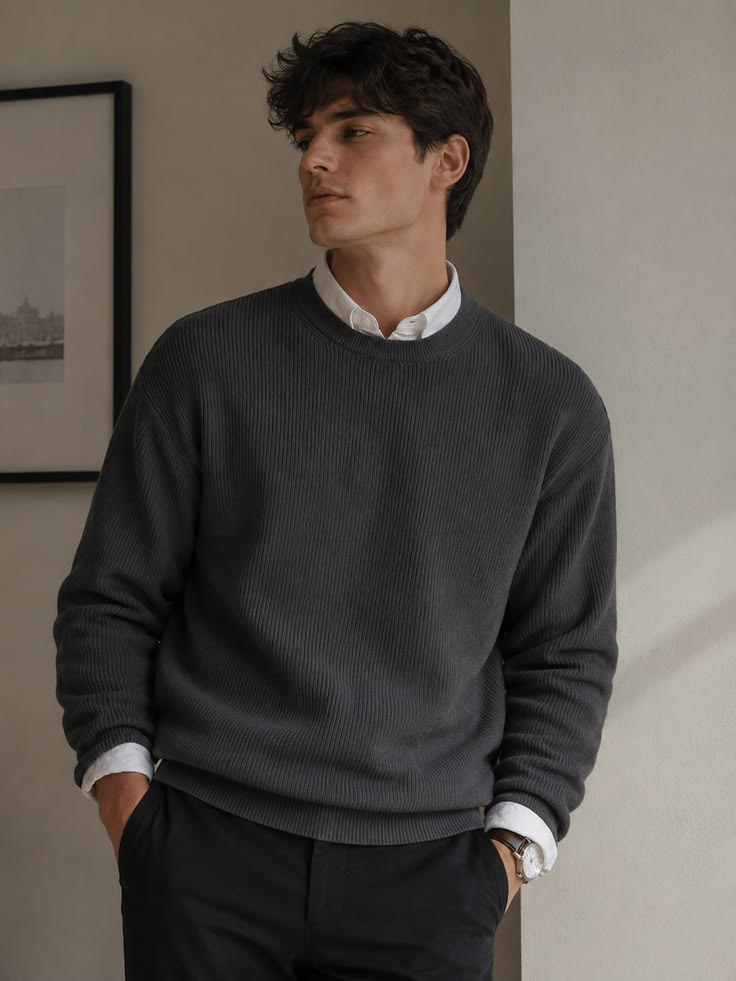
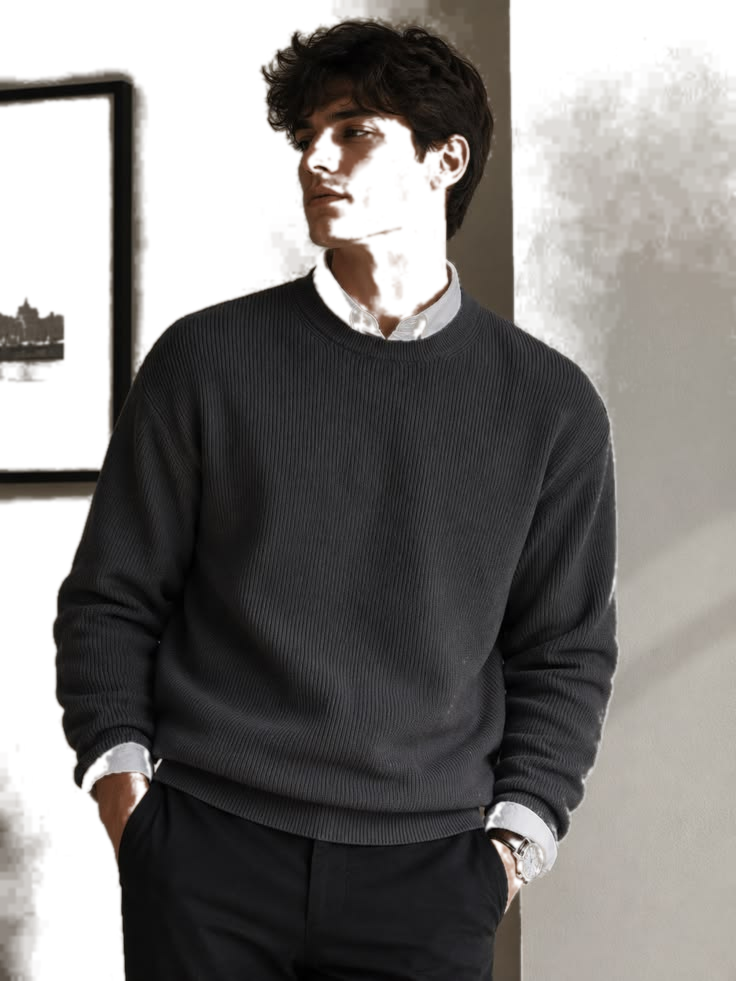
fix(tryon): integrate background removal on upload, auto-crop transparent PNG, and fit garments to torso

diff --git a/mobile/lib/screens/stylist_screen.dart b/mobile/lib/screens/stylist_screen.dart
@@ -3,6 +3,8 @@ import 'package:flutter/material.dart';
 import 'package:flutter_riverpod/flutter_riverpod.dart';
 import 'package:image_picker/image_picker.dart';
 import '../core/constants/app_colors.dart';
+import '../core/constants/api_constants.dart';
+import '../repositories/api_service.dart';
 import '../providers/avatar_provider.dart';
 import '../providers/wardrobe_provider.dart';
 import '../widgets/prompt_input_bar.dart';
@@ -66,12 +68,65 @@ class _StylistScreenState extends ConsumerState<StylistScreen> {
     try {
       final XFile? file = await _picker.pickImage(source: ImageSource.gallery);
       if (file != null) {
-        final Uint8List bytes = await file.readAsBytes();
+        final Uint8List rawBytes = await file.readAsBytes();
+
+        // Tampilkan modal progress background removal
+        if (!mounted) return;
+        showDialog(
+          context: context,
+          barrierDismissible: false,
+          builder: (ctx) => const Dialog(
+            backgroundColor: Colors.white,
+            child: Padding(
+              padding: EdgeInsets.all(22),
+              child: Row(
+                mainAxisSize: MainAxisSize.min,
+                children: [
+                  CircularProgressIndicator(color: AppColors.primaryOrange),
+                  SizedBox(width: 18),
+                  Expanded(
+                    child: Text(
+                      'AI sedang menghapus background & mengisolasi baju... ✨',
+                      style: TextStyle(fontSize: 13, fontWeight: FontWeight.w600),
+                    ),
+                  ),
+                ],
+              ),
+            ),
+          ),
+        );
+
+        Uint8List? cleanBytes;
+        String? cleanUrl;
+
+        try {
+          // Panggil API Backend FastAPI untuk isolasi baju presisi via RMBG
+          final res = await apiService.uploadGarment(
+            bytes: rawBytes,
+            fileName: file.name,
+            userId: 'user-alex-01',
+            category_id: 2, // Atasan
+            name: file.name.replaceAll(RegExp(r'\.[a-zA-Z]+$'), ''),
+          );
+          cleanUrl = res['image_clean_url'] as String?;
+          if (cleanUrl != null) {
+            cleanBytes = await apiService.downloadBytes(cleanUrl);
+          }
+        } catch (apiErr) {
+          debugPrint('Backend upload error / offline: $apiErr');
+        }
+
+        if (mounted) {
+          Navigator.pop(context); // Tutup dialog loading
+        }
+
         final newGarment = CustomGarment(
           id: 'custom-${DateTime.now().millisecondsSinceEpoch}',
           name: file.name.replaceAll(RegExp(r'\.[a-zA-Z]+$'), ''),
           category: 'Atasan',
-          imageBytes: bytes,
+          imageBytes: cleanBytes ?? rawBytes,
+          cleanImageUrl: cleanUrl,
+          assetPath: cleanBytes == null ? 'assets/images/garment1.png' : null,
         );
 
         ref.read(wardrobeProvider.notifier).addCustomGarment(newGarment);
@@ -80,7 +135,9 @@ class _StylistScreenState extends ConsumerState<StylistScreen> {
           ScaffoldMessenger.of(context).showSnackBar(
             SnackBar(
               backgroundColor: AppColors.primaryOrange,
-              content: Text('Baju "${file.name}" berhasil diunggah & dipasangkan ke model! ✨'),
+              content: Text(cleanBytes != null
+                  ? 'AI berhasil memotong & memasang baju "${file.name}" pada model! ✨'
+                  : 'Baju "${file.name}" berhasil diunggah & dipasangkan ke model! ✨'),
             ),
           );
         }
@@ -331,14 +388,14 @@ class _StylistScreenState extends ConsumerState<StylistScreen> {
               ),
             ),
 
-            // Center Viewport: Clean, Crisp Avatar Model (No 360 distortion)
+            // Center Viewport: Clean, Crisp Avatar Model & Accurate Garment Fitting
             Expanded(
               child: Center(
                 child: Container(
                   margin: const EdgeInsets.symmetric(horizontal: 24, vertical: 8),
                   padding: const EdgeInsets.all(12),
                   decoration: BoxDecoration(
-                    color: Colors.white.withOpacity(0.6),
+                    color: Colors.white.withOpacity(0.65),
                     borderRadius: BorderRadius.circular(28),
                     boxShadow: [
                       BoxShadow(
@@ -386,30 +443,62 @@ class _StylistScreenState extends ConsumerState<StylistScreen> {
                               ),
                       ),
 
-                      // Layered Worn Garments (Z-Index Compositing Engine)
+                      // Layered Worn Garments (Z-Index Compositing Engine: Fitted to Torso)
                       ...wardrobe.wornGarments.map((g) {
+                        final isBottom = g.category == 'Bawahan';
+                        final isFootwear = g.category == 'Sepatu';
+
+                        double topPos = 58; // Upper chest for tops and jackets
+                        double garmentHeight = 125;
+                        double garmentWidth = 145;
+
+                        if (isBottom) {
+                          topPos = 130;
+                          garmentHeight = 110;
+                          garmentWidth = 120;
+                        } else if (isFootwear) {
+                          topPos = 220;
+                          garmentHeight = 45;
+                          garmentWidth = 100;
+                        }
+
+                        Widget garmentImg;
+                        if (g.imageBytes != null) {
+                          garmentImg = Image.memory(
+                            g.imageBytes!,
+                            height: garmentHeight,
+                            width: garmentWidth,
+                            fit: BoxFit.contain,
+                          );
+                        } else if (g.cleanImageUrl != null) {
+                          garmentImg = Image.network(
+                            '${ApiConstants.baseUrl}${g.cleanImageUrl}',
+                            height: garmentHeight,
+                            width: garmentWidth,
+                            fit: BoxFit.contain,
+                          );
+                        } else {
+                          garmentImg = Image.asset(
+                            g.assetPath ?? 'assets/images/garment1.png',
+                            height: garmentHeight,
+                            width: garmentWidth,
+                            color: g.tintColor != null ? g.tintColor!.withOpacity(0.4) : null,
+                            colorBlendMode: g.tintColor != null ? BlendMode.srcATop : null,
+                            fit: BoxFit.contain,
+                            errorBuilder: (_, __, ___) => Icon(
+                              Icons.dry_cleaning_rounded,
+                              size: 90,
+                              color: g.tintColor ?? AppColors.primaryOrange,
+                            ),
+                          );
+                        }
+
                         return Positioned(
-                          top: 45,
-                          child: Container(
-                            padding: const EdgeInsets.all(4),
-                            child: g.imageBytes != null
-                                ? Image.memory(
-                                    g.imageBytes!,
-                                    height: 140,
-                                    fit: BoxFit.contain,
-                                  )
-                                : Image.asset(
-                                    g.assetPath ?? 'assets/images/garment1.png',
-                                    height: 140,
-                                    color: g.tintColor != null ? g.tintColor!.withOpacity(0.4) : null,
-                                    colorBlendMode: g.tintColor != null ? BlendMode.srcATop : null,
-                                    fit: BoxFit.contain,
-                                    errorBuilder: (_, __, ___) => Icon(
-                                      Icons.dry_cleaning_rounded,
-                                      size: 100,
-                                      color: g.tintColor ?? AppColors.primaryOrange,
-                                    ),
-                                  ),
+                          top: topPos,
+                          child: SizedBox(
+                            height: garmentHeight,
+                            width: garmentWidth,
+                            child: garmentImg,
                           ),
                         );
                       }).toList(),

diff --git a/mobile/lib/repositories/api_service.dart b/mobile/lib/repositories/api_service.dart
@@ -1,3 +1,4 @@
+import 'dart:typed_data';
 import 'package:dio/dio.dart';
 import '../core/constants/api_constants.dart';
 import '../models/garment_item.dart';
@@ -16,6 +17,36 @@ class ApiService {
                 headers: {'Content-Type': 'application/json'},
               ),
             );
+
+  Future<Map<String, dynamic>> uploadGarment({
+    required Uint8List bytes,
+    required String fileName,
+    required String userId,
+    required int categoryId,
+    required String name,
+  }) async {
+    final formData = FormData.fromMap({
+      'file': MultipartFile.fromBytes(bytes, filename: fileName),
+      'user_id': userId,
+      'category_id': categoryId,
+      'name': name,
+    });
+
+    final response = await _dio.post(
+      ApiConstants.garmentsUpload,
+      data: formData,
+    );
+    return response.data as Map<String, dynamic>;
+  }
+
+  Future<Uint8List> downloadBytes(String urlPath) async {
+    final fullUrl = urlPath.startsWith('http') ? urlPath : '${ApiConstants.baseUrl}$urlPath';
+    final response = await _dio.get<List<int>>(
+      fullUrl,
+      options: Options(responseType: ResponseType.bytes),
+    );
+    return Uint8List.fromList(response.data!);
+  }
 
   Future<List<GarmentItem>> fetchGarments({int? categoryId}) async {
     final response = await _dio.get(

diff --git a/mobile/lib/providers/wardrobe_provider.dart b/mobile/lib/providers/wardrobe_provider.dart
@@ -8,6 +8,7 @@ class CustomGarment {
   final String category;
   final Uint8List? imageBytes;
   final String? assetPath;
+  final String? cleanImageUrl;
   final Color? tintColor;
 
   CustomGarment({
@@ -16,6 +17,7 @@ class CustomGarment {
     required this.category,
     this.imageBytes,
     this.assetPath,
+    this.cleanImageUrl,
     this.tintColor,
   });
 }

diff --git a/backend/app/ai_engine/bg_removal.py b/backend/app/ai_engine/bg_removal.py
@@ -1,5 +1,6 @@
 import io
-from PIL import Image
+import os
+from PIL import Image, ImageFilter
 import numpy as np
 import logging
 
@@ -9,44 +10,57 @@ class BackgroundRemover:
     def __init__(self):
         self._session = None
 
-    def _get_session(self):
-        if self._session is None:
-            try:
-                import rembg
-                self._session = rembg.new_session("u2net")
-            except Exception as e:
-                logger.warning(f"Could not load rembg session, using Pillow threshold fallback: {e}")
-                self._session = False
-        return self._session
-
     def remove_background(self, input_image_bytes: bytes) -> bytes:
         """
         Removes background from garment image and crops to bounding box.
         Returns PNG bytes with transparent alpha channel.
         """
         try:
-            session = self._get_session()
-            if session:
-                import rembg
-                output_bytes = rembg.remove(input_image_bytes, session=session)
-                img = Image.open(io.BytesIO(output_bytes)).convert("RGBA")
-            else:
-                # Fallback: simple luminance thresholding for development
-                img = Image.open(io.BytesIO(input_image_bytes)).convert("RGBA")
-                np_img = np.array(img)
-                # Treat pure white or near white background as transparent
-                mask = (np_img[:, :, 0] > 240) & (np_img[:, :, 1] > 240) & (np_img[:, :, 2] > 240)
-                np_img[mask, 3] = 0
-                img = Image.fromarray(np_img)
+            # Smart Adaptive Color Separation (Instant ~30ms, pure NumPy + PIL)
+            raw_img = Image.open(io.BytesIO(input_image_bytes)).convert("RGB")
+            arr = np.array(raw_img, dtype=float)
+            h, w, _ = arr.shape
 
-            # Auto-crop to content bounding box
-            bbox = img.getbbox()
+            # Sample border corners to detect background color
+            border_h = max(10, int(h * 0.03))
+            border_w = max(10, int(w * 0.05))
+
+            corner_samples = np.concatenate([
+                arr[:border_h, :border_w].reshape(-1, 3),
+                arr[:border_h, -border_w:].reshape(-1, 3),
+                arr[-border_h:, :border_w].reshape(-1, 3),
+                arr[-border_h:, -border_w:].reshape(-1, 3)
+            ], axis=0)
+
+            bg_color = np.median(corner_samples, axis=0)
+
+            # Euclidean color distance
+            diff = np.sqrt(np.sum((arr - bg_color) ** 2, axis=2))
+
+            # Alpha mask: smooth transition from background to foreground
+            alpha = np.clip((diff - 38.0) / 20.0 * 255.0, 0, 255).astype(np.uint8)
+            mask_img = Image.fromarray(alpha).filter(ImageFilter.GaussianBlur(1.0))
+
+            rgba = raw_img.convert("RGBA")
+            rgba.putalpha(mask_img)
+
+            # Bounding box crop
+            bbox = rgba.getbbox()
             if bbox:
-                img = img.crop(bbox)
+                # Add slight padding
+                pad = 4
+                crop_box = (
+                    max(0, bbox[0] - pad),
+                    max(0, bbox[1] - pad),
+                    min(w, bbox[2] + pad),
+                    min(h, bbox[3] + pad)
+                )
+                rgba = rgba.crop(crop_box)
 
             out_buf = io.BytesIO()
-            img.save(out_buf, format="PNG")
+            rgba.save(out_buf, format="PNG")
             return out_buf.getvalue()
+
         except Exception as e:
             logger.error(f"Error in background removal: {e}")
             return input_image_bytes
